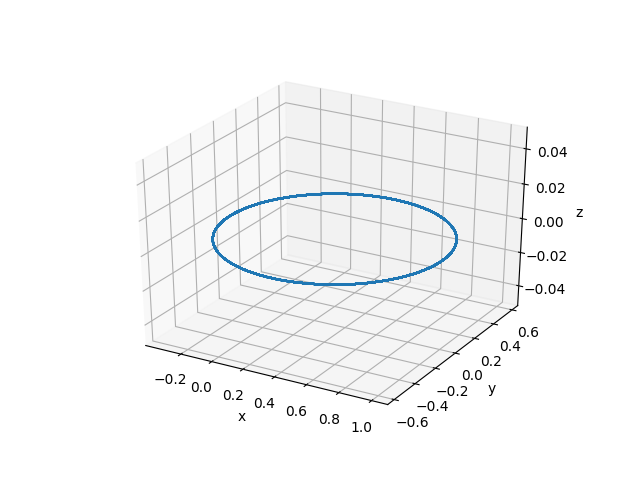
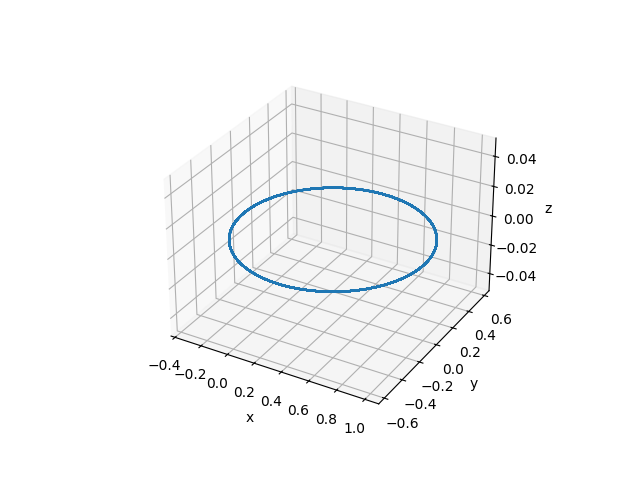
-

Changed region(s): [[0.2188, 0.1875, 0.875, 0.9062]]

diff --git a/chaos/chaos_app01/ay_a_gidelim_duzlemsel_dairesel_kisitlanmis_3cisim_problemi__planar_restricted_circular_3body_problem_.html b/chaos/chaos_app01/ay_a_gidelim_duzlemsel_dairesel_kisitlanmis_3cisim_problemi__planar_restricted_circular_3body_problem_.html
@@ -172,13 +172,12 @@ class="sourceCode python"><code class="sourceCode python"><span id="cb1-1"><a hr
 <span id="cb1-31"><a href="#cb1-31" aria-hidden="true" tabindex="-1"></a>state <span class="op">=</span> odeint(twobody, state0, t)</span>
 <span id="cb1-32"><a href="#cb1-32" aria-hidden="true" tabindex="-1"></a></span>
 <span id="cb1-33"><a href="#cb1-33" aria-hidden="true" tabindex="-1"></a><span class="im">from</span> mpl_toolkits.mplot3d <span class="im">import</span> Axes3D</span>
-<span id="cb1-34"><a href="#cb1-34" aria-hidden="true" tabindex="-1"></a>fig <span class="op">=</span> plt.figure()</span>
-<span id="cb1-35"><a href="#cb1-35" aria-hidden="true" tabindex="-1"></a>ax <span class="op">=</span> fig.gca(projection<span class="op">=</span><span class="st">&#39;3d&#39;</span>)</span>
-<span id="cb1-36"><a href="#cb1-36" aria-hidden="true" tabindex="-1"></a>ax.plot(state[:,<span class="dv">6</span>]<span class="op">-</span>state[:,<span class="dv">0</span>], state[:,<span class="dv">7</span>]<span class="op">-</span>state[:,<span class="dv">1</span>], state[:,<span class="dv">8</span>]<span class="op">-</span>state[:,<span class="dv">2</span>])</span>
-<span id="cb1-37"><a href="#cb1-37" aria-hidden="true" tabindex="-1"></a>ax.set_xlabel(<span class="st">&#39;x&#39;</span>)</span>
-<span id="cb1-38"><a href="#cb1-38" aria-hidden="true" tabindex="-1"></a>ax.set_ylabel(<span class="st">&#39;y&#39;</span>)</span>
-<span id="cb1-39"><a href="#cb1-39" aria-hidden="true" tabindex="-1"></a>ax.set_zlabel(<span class="st">&#39;z&#39;</span>)</span>
-<span id="cb1-40"><a href="#cb1-40" aria-hidden="true" tabindex="-1"></a>plt.savefig(<span class="st">&#39;chaos_app01_01.png&#39;</span>)</span></code></pre></div>
+<span id="cb1-34"><a href="#cb1-34" aria-hidden="true" tabindex="-1"></a>fig, ax <span class="op">=</span> plt.subplots(<span class="dv">1</span>, <span class="dv">1</span>, subplot_kw<span class="op">=</span>{<span class="st">&#39;projection&#39;</span>: <span class="st">&#39;3d&#39;</span>})</span>
+<span id="cb1-35"><a href="#cb1-35" aria-hidden="true" tabindex="-1"></a>ax.plot(state[:,<span class="dv">6</span>]<span class="op">-</span>state[:,<span class="dv">0</span>], state[:,<span class="dv">7</span>]<span class="op">-</span>state[:,<span class="dv">1</span>], state[:,<span class="dv">8</span>]<span class="op">-</span>state[:,<span class="dv">2</span>])</span>
+<span id="cb1-36"><a href="#cb1-36" aria-hidden="true" tabindex="-1"></a>ax.set_xlabel(<span class="st">&#39;x&#39;</span>)</span>
+<span id="cb1-37"><a href="#cb1-37" aria-hidden="true" tabindex="-1"></a>ax.set_ylabel(<span class="st">&#39;y&#39;</span>)</span>
+<span id="cb1-38"><a href="#cb1-38" aria-hidden="true" tabindex="-1"></a>ax.set_zlabel(<span class="st">&#39;z&#39;</span>)</span>
+<span id="cb1-39"><a href="#cb1-39" aria-hidden="true" tabindex="-1"></a>plt.savefig(<span class="st">&#39;chaos_app01_01.png&#39;</span>)</span></code></pre></div>
 <p><img src="chaos_app01_01.png" /></p>
 <p>Not: Üstte iki cisim problemini hesapsal olarak çözdük [6]. Bu
 problemin analitik çözümü de vardır, detaylar için [5].</p>
@@ -360,7 +359,7 @@ bulunur. Okuyucuya ödev olabilir [8]’e bakılıp kodlama yapılabilir.</p>
 <p>Alttaki kod [3]’u baz almıştır,</p>
 <div class="sourceCode" id="cb2"><pre
 class="sourceCode python"><code class="sourceCode python"><span id="cb2-1"><a href="#cb2-1" aria-hidden="true" tabindex="-1"></a><span class="im">import</span> scipy <span class="im">as</span> sp</span>
-<span id="cb2-2"><a href="#cb2-2" aria-hidden="true" tabindex="-1"></a><span class="im">from</span> scipy.integrate.odepack <span class="im">import</span> odeint</span>
+<span id="cb2-2"><a href="#cb2-2" aria-hidden="true" tabindex="-1"></a><span class="im">from</span> scipy.integrate <span class="im">import</span> odeint</span>
 <span id="cb2-3"><a href="#cb2-3" aria-hidden="true" tabindex="-1"></a></span>
 <span id="cb2-4"><a href="#cb2-4" aria-hidden="true" tabindex="-1"></a><span class="kw">def</span> rhs(u,t):</span>
 <span id="cb2-5"><a href="#cb2-5" aria-hidden="true" tabindex="-1"></a>    y1,y2,y3,y4 <span class="op">=</span> u</span>
@@ -375,15 +374,16 @@ class="sourceCode python"><code class="sourceCode python"><span id="cb2-1"><a hr
 <span id="cb2-14"><a href="#cb2-14" aria-hidden="true" tabindex="-1"></a></span>
 <span id="cb2-15"><a href="#cb2-15" aria-hidden="true" tabindex="-1"></a>    <span class="cf">return</span> res</span>
 <span id="cb2-16"><a href="#cb2-16" aria-hidden="true" tabindex="-1"></a></span>
-<span id="cb2-17"><a href="#cb2-17" aria-hidden="true" tabindex="-1"></a>t<span class="op">=</span>np.linspace(<span class="fl">0.0</span>,<span class="fl">17.06521656015796</span>,<span class="fl">10000.0</span>)</span>
+<span id="cb2-17"><a href="#cb2-17" aria-hidden="true" tabindex="-1"></a>t<span class="op">=</span>np.linspace(<span class="fl">0.0</span>,<span class="fl">17.06521656015796</span>,<span class="dv">10000</span>)</span>
 <span id="cb2-18"><a href="#cb2-18" aria-hidden="true" tabindex="-1"></a>res<span class="op">=</span>odeint(rhs,[<span class="fl">0.994</span>,<span class="fl">0.0</span>,<span class="fl">0.0</span>,<span class="op">-</span><span class="fl">2.00158510637908</span>],t)</span>
 <span id="cb2-19"><a href="#cb2-19" aria-hidden="true" tabindex="-1"></a>y1r,y2r,y3r,y4r<span class="op">=</span>res[:, <span class="dv">0</span>],res[:, <span class="dv">1</span>],res[:, <span class="dv">2</span>],res[:, <span class="dv">3</span>]</span>
-<span id="cb2-20"><a href="#cb2-20" aria-hidden="true" tabindex="-1"></a>plt.plot(y1r,y2r)</span>
-<span id="cb2-21"><a href="#cb2-21" aria-hidden="true" tabindex="-1"></a>plt.plot(<span class="dv">0</span>,<span class="dv">0</span>,<span class="st">&#39;o&#39;</span>)</span>
-<span id="cb2-22"><a href="#cb2-22" aria-hidden="true" tabindex="-1"></a>plt.plot(<span class="dv">1</span>,<span class="dv">0</span>,<span class="st">&#39;o&#39;</span>)</span>
-<span id="cb2-23"><a href="#cb2-23" aria-hidden="true" tabindex="-1"></a>plt.text(<span class="fl">0.1</span>,<span class="fl">0.1</span>, <span class="st">u&#39;Dünya&#39;</span>)</span>
-<span id="cb2-24"><a href="#cb2-24" aria-hidden="true" tabindex="-1"></a>plt.text(<span class="fl">1.0</span>,<span class="fl">0.1</span>, <span class="st">u&#39;Ay&#39;</span>)</span>
-<span id="cb2-25"><a href="#cb2-25" aria-hidden="true" tabindex="-1"></a>plt.savefig(<span class="st">&#39;chaos_app01_02.png&#39;</span>)</span></code></pre></div>
+<span id="cb2-20"><a href="#cb2-20" aria-hidden="true" tabindex="-1"></a>plt.figure()</span>
+<span id="cb2-21"><a href="#cb2-21" aria-hidden="true" tabindex="-1"></a>plt.plot(y1r,y2r)</span>
+<span id="cb2-22"><a href="#cb2-22" aria-hidden="true" tabindex="-1"></a>plt.plot(<span class="dv">0</span>,<span class="dv">0</span>,<span class="st">&#39;o&#39;</span>)</span>
+<span id="cb2-23"><a href="#cb2-23" aria-hidden="true" tabindex="-1"></a>plt.plot(<span class="dv">1</span>,<span class="dv">0</span>,<span class="st">&#39;o&#39;</span>)</span>
+<span id="cb2-24"><a href="#cb2-24" aria-hidden="true" tabindex="-1"></a>plt.text(<span class="fl">0.1</span>,<span class="fl">0.1</span>,<span class="st">u&#39;Dünya&#39;</span>)</span>
+<span id="cb2-25"><a href="#cb2-25" aria-hidden="true" tabindex="-1"></a>plt.text(<span class="fl">1.0</span>,<span class="fl">0.1</span>,<span class="st">&#39;Ay&#39;</span>)</span>
+<span id="cb2-26"><a href="#cb2-26" aria-hidden="true" tabindex="-1"></a>plt.savefig(<span class="st">&#39;chaos_app01_02.png&#39;</span>)</span></code></pre></div>
 <p><img src="chaos_app01_02.png" /></p>
 <p>Üstteki yola onu keşfeden bilimciye atfen Arenstorf Yörüngesi adı
 veriliyor. Başlangıç şartlarına göre bu şekilde pek çok gidiş yolu

diff --git a/chaos/chaos_app01/chaos_app01.html b/chaos/chaos_app01/chaos_app01.html
@@ -172,13 +172,12 @@ class="sourceCode python"><code class="sourceCode python"><span id="cb1-1"><a hr
 <span id="cb1-31"><a href="#cb1-31" aria-hidden="true" tabindex="-1"></a>state <span class="op">=</span> odeint(twobody, state0, t)</span>
 <span id="cb1-32"><a href="#cb1-32" aria-hidden="true" tabindex="-1"></a></span>
 <span id="cb1-33"><a href="#cb1-33" aria-hidden="true" tabindex="-1"></a><span class="im">from</span> mpl_toolkits.mplot3d <span class="im">import</span> Axes3D</span>
-<span id="cb1-34"><a href="#cb1-34" aria-hidden="true" tabindex="-1"></a>fig <span class="op">=</span> plt.figure()</span>
-<span id="cb1-35"><a href="#cb1-35" aria-hidden="true" tabindex="-1"></a>ax <span class="op">=</span> fig.gca(projection<span class="op">=</span><span class="st">&#39;3d&#39;</span>)</span>
-<span id="cb1-36"><a href="#cb1-36" aria-hidden="true" tabindex="-1"></a>ax.plot(state[:,<span class="dv">6</span>]<span class="op">-</span>state[:,<span class="dv">0</span>], state[:,<span class="dv">7</span>]<span class="op">-</span>state[:,<span class="dv">1</span>], state[:,<span class="dv">8</span>]<span class="op">-</span>state[:,<span class="dv">2</span>])</span>
-<span id="cb1-37"><a href="#cb1-37" aria-hidden="true" tabindex="-1"></a>ax.set_xlabel(<span class="st">&#39;x&#39;</span>)</span>
-<span id="cb1-38"><a href="#cb1-38" aria-hidden="true" tabindex="-1"></a>ax.set_ylabel(<span class="st">&#39;y&#39;</span>)</span>
-<span id="cb1-39"><a href="#cb1-39" aria-hidden="true" tabindex="-1"></a>ax.set_zlabel(<span class="st">&#39;z&#39;</span>)</span>
-<span id="cb1-40"><a href="#cb1-40" aria-hidden="true" tabindex="-1"></a>plt.savefig(<span class="st">&#39;chaos_app01_01.png&#39;</span>)</span></code></pre></div>
+<span id="cb1-34"><a href="#cb1-34" aria-hidden="true" tabindex="-1"></a>fig, ax <span class="op">=</span> plt.subplots(<span class="dv">1</span>, <span class="dv">1</span>, subplot_kw<span class="op">=</span>{<span class="st">&#39;projection&#39;</span>: <span class="st">&#39;3d&#39;</span>})</span>
+<span id="cb1-35"><a href="#cb1-35" aria-hidden="true" tabindex="-1"></a>ax.plot(state[:,<span class="dv">6</span>]<span class="op">-</span>state[:,<span class="dv">0</span>], state[:,<span class="dv">7</span>]<span class="op">-</span>state[:,<span class="dv">1</span>], state[:,<span class="dv">8</span>]<span class="op">-</span>state[:,<span class="dv">2</span>])</span>
+<span id="cb1-36"><a href="#cb1-36" aria-hidden="true" tabindex="-1"></a>ax.set_xlabel(<span class="st">&#39;x&#39;</span>)</span>
+<span id="cb1-37"><a href="#cb1-37" aria-hidden="true" tabindex="-1"></a>ax.set_ylabel(<span class="st">&#39;y&#39;</span>)</span>
+<span id="cb1-38"><a href="#cb1-38" aria-hidden="true" tabindex="-1"></a>ax.set_zlabel(<span class="st">&#39;z&#39;</span>)</span>
+<span id="cb1-39"><a href="#cb1-39" aria-hidden="true" tabindex="-1"></a>plt.savefig(<span class="st">&#39;chaos_app01_01.png&#39;</span>)</span></code></pre></div>
 <p><img src="chaos_app01_01.png" /></p>
 <p>Not: Üstte iki cisim problemini hesapsal olarak çözdük [6]. Bu
 problemin analitik çözümü de vardır, detaylar için [5].</p>
@@ -360,7 +359,7 @@ bulunur. Okuyucuya ödev olabilir [8]’e bakılıp kodlama yapılabilir.</p>
 <p>Alttaki kod [3]’u baz almıştır,</p>
 <div class="sourceCode" id="cb2"><pre
 class="sourceCode python"><code class="sourceCode python"><span id="cb2-1"><a href="#cb2-1" aria-hidden="true" tabindex="-1"></a><span class="im">import</span> scipy <span class="im">as</span> sp</span>
-<span id="cb2-2"><a href="#cb2-2" aria-hidden="true" tabindex="-1"></a><span class="im">from</span> scipy.integrate.odepack <span class="im">import</span> odeint</span>
+<span id="cb2-2"><a href="#cb2-2" aria-hidden="true" tabindex="-1"></a><span class="im">from</span> scipy.integrate <span class="im">import</span> odeint</span>
 <span id="cb2-3"><a href="#cb2-3" aria-hidden="true" tabindex="-1"></a></span>
 <span id="cb2-4"><a href="#cb2-4" aria-hidden="true" tabindex="-1"></a><span class="kw">def</span> rhs(u,t):</span>
 <span id="cb2-5"><a href="#cb2-5" aria-hidden="true" tabindex="-1"></a>    y1,y2,y3,y4 <span class="op">=</span> u</span>
@@ -375,15 +374,16 @@ class="sourceCode python"><code class="sourceCode python"><span id="cb2-1"><a hr
 <span id="cb2-14"><a href="#cb2-14" aria-hidden="true" tabindex="-1"></a></span>
 <span id="cb2-15"><a href="#cb2-15" aria-hidden="true" tabindex="-1"></a>    <span class="cf">return</span> res</span>
 <span id="cb2-16"><a href="#cb2-16" aria-hidden="true" tabindex="-1"></a></span>
-<span id="cb2-17"><a href="#cb2-17" aria-hidden="true" tabindex="-1"></a>t<span class="op">=</span>np.linspace(<span class="fl">0.0</span>,<span class="fl">17.06521656015796</span>,<span class="fl">10000.0</span>)</span>
+<span id="cb2-17"><a href="#cb2-17" aria-hidden="true" tabindex="-1"></a>t<span class="op">=</span>np.linspace(<span class="fl">0.0</span>,<span class="fl">17.06521656015796</span>,<span class="dv">10000</span>)</span>
 <span id="cb2-18"><a href="#cb2-18" aria-hidden="true" tabindex="-1"></a>res<span class="op">=</span>odeint(rhs,[<span class="fl">0.994</span>,<span class="fl">0.0</span>,<span class="fl">0.0</span>,<span class="op">-</span><span class="fl">2.00158510637908</span>],t)</span>
 <span id="cb2-19"><a href="#cb2-19" aria-hidden="true" tabindex="-1"></a>y1r,y2r,y3r,y4r<span class="op">=</span>res[:, <span class="dv">0</span>],res[:, <span class="dv">1</span>],res[:, <span class="dv">2</span>],res[:, <span class="dv">3</span>]</span>
-<span id="cb2-20"><a href="#cb2-20" aria-hidden="true" tabindex="-1"></a>plt.plot(y1r,y2r)</span>
-<span id="cb2-21"><a href="#cb2-21" aria-hidden="true" tabindex="-1"></a>plt.plot(<span class="dv">0</span>,<span class="dv">0</span>,<span class="st">&#39;o&#39;</span>)</span>
-<span id="cb2-22"><a href="#cb2-22" aria-hidden="true" tabindex="-1"></a>plt.plot(<span class="dv">1</span>,<span class="dv">0</span>,<span class="st">&#39;o&#39;</span>)</span>
-<span id="cb2-23"><a href="#cb2-23" aria-hidden="true" tabindex="-1"></a>plt.text(<span class="fl">0.1</span>,<span class="fl">0.1</span>, <span class="st">u&#39;Dünya&#39;</span>)</span>
-<span id="cb2-24"><a href="#cb2-24" aria-hidden="true" tabindex="-1"></a>plt.text(<span class="fl">1.0</span>,<span class="fl">0.1</span>, <span class="st">u&#39;Ay&#39;</span>)</span>
-<span id="cb2-25"><a href="#cb2-25" aria-hidden="true" tabindex="-1"></a>plt.savefig(<span class="st">&#39;chaos_app01_02.png&#39;</span>)</span></code></pre></div>
+<span id="cb2-20"><a href="#cb2-20" aria-hidden="true" tabindex="-1"></a>plt.figure()</span>
+<span id="cb2-21"><a href="#cb2-21" aria-hidden="true" tabindex="-1"></a>plt.plot(y1r,y2r)</span>
+<span id="cb2-22"><a href="#cb2-22" aria-hidden="true" tabindex="-1"></a>plt.plot(<span class="dv">0</span>,<span class="dv">0</span>,<span class="st">&#39;o&#39;</span>)</span>
+<span id="cb2-23"><a href="#cb2-23" aria-hidden="true" tabindex="-1"></a>plt.plot(<span class="dv">1</span>,<span class="dv">0</span>,<span class="st">&#39;o&#39;</span>)</span>
+<span id="cb2-24"><a href="#cb2-24" aria-hidden="true" tabindex="-1"></a>plt.text(<span class="fl">0.1</span>,<span class="fl">0.1</span>,<span class="st">u&#39;Dünya&#39;</span>)</span>
+<span id="cb2-25"><a href="#cb2-25" aria-hidden="true" tabindex="-1"></a>plt.text(<span class="fl">1.0</span>,<span class="fl">0.1</span>,<span class="st">&#39;Ay&#39;</span>)</span>
+<span id="cb2-26"><a href="#cb2-26" aria-hidden="true" tabindex="-1"></a>plt.savefig(<span class="st">&#39;chaos_app01_02.png&#39;</span>)</span></code></pre></div>
 <p><img src="chaos_app01_02.png" /></p>
 <p>Üstteki yola onu keşfeden bilimciye atfen Arenstorf Yörüngesi adı
 veriliyor. Başlangıç şartlarına göre bu şekilde pek çok gidiş yolu
